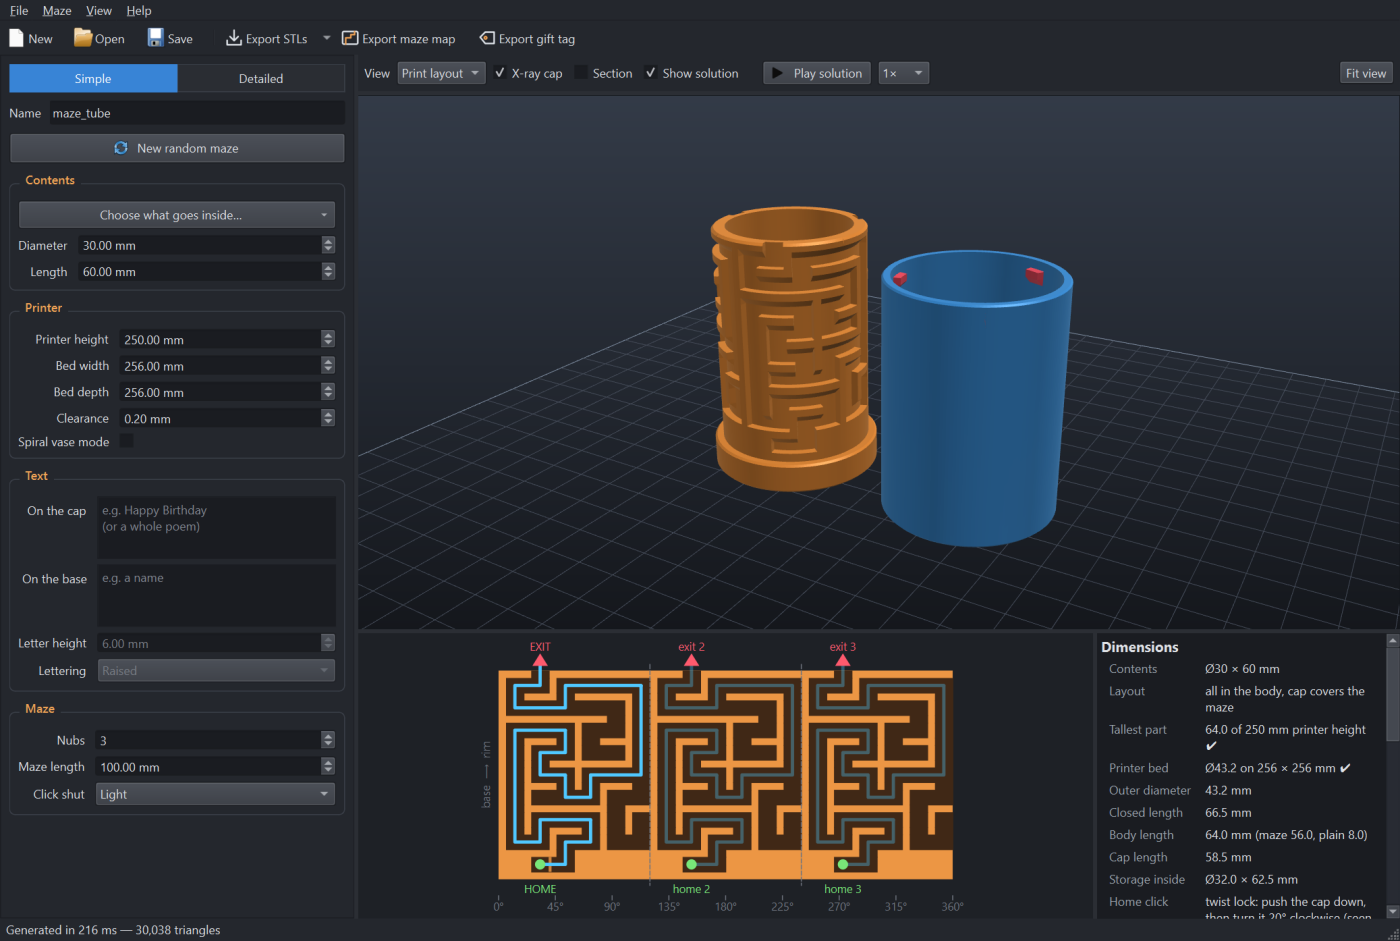
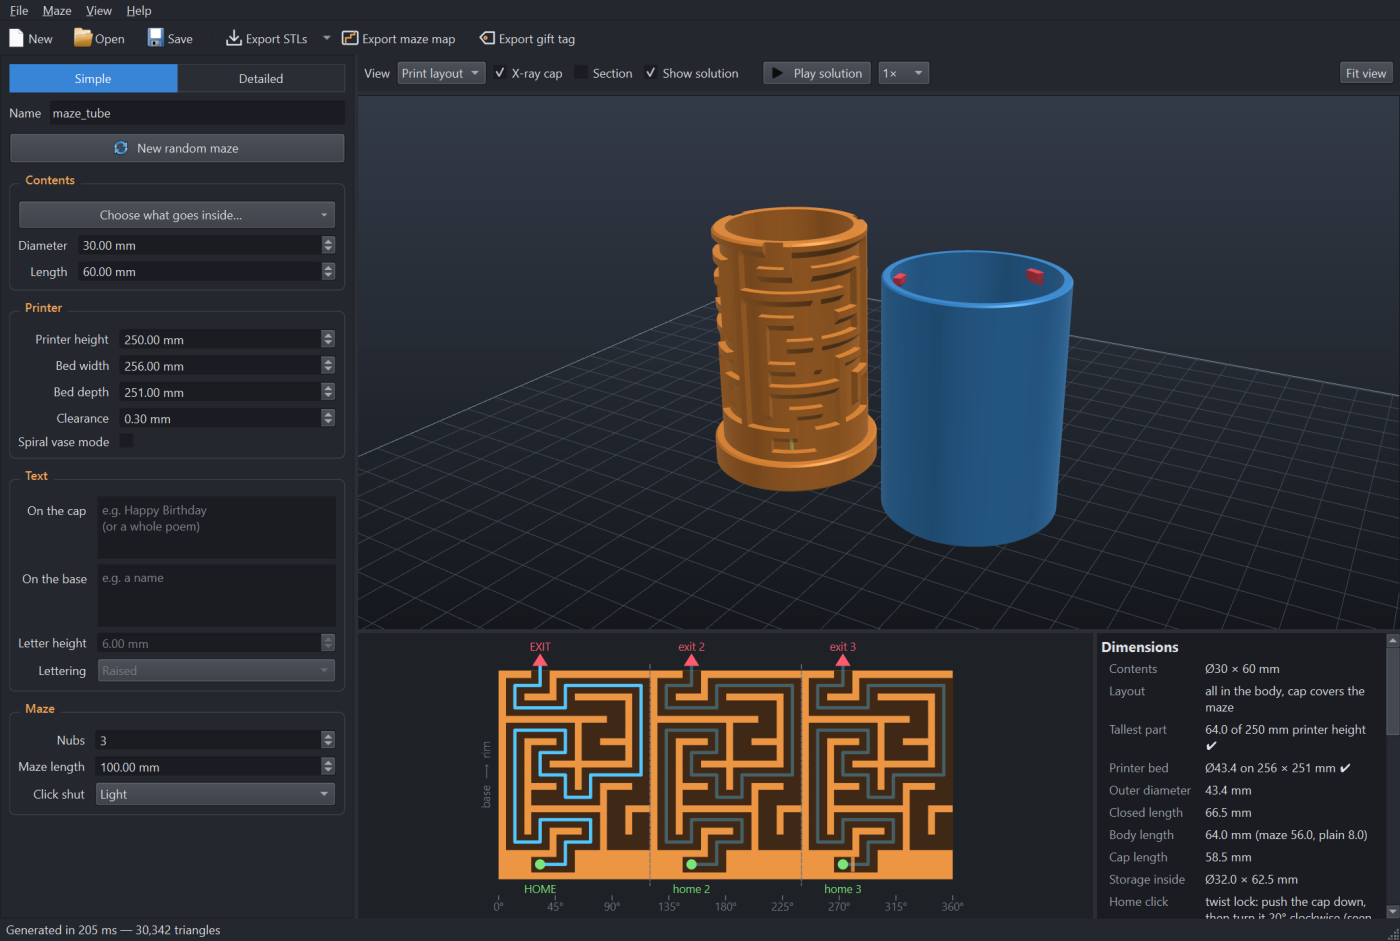
Maze Tube Designer 1.4.2: the click bump is in the front pocket, and shown
Only one lock pocket has the click bump (a bump under every nub would lock
the cap solid), and it was in the pocket at the back, so the pocket that
faces the default view looked as if the bump were missing.

- The bump is now in the pocket nearest the front, the side the text is
  centred on.
- It is drawn in yellow in the 3D view, and the panel says that only one
  pocket has it.

diff --git a/mazetube/geometry.py b/mazetube/geometry.py
@@ -35,6 +35,7 @@ EPS = 0.05          # width of the near-vertical step facets (mm)
 # the click: how far its bump stands above the nub's tip clearance (mm): light, medium, firm
 CLICK_BUMP = {1: 0.15, 2: 0.25, 3: 0.40}
 CLICK_NAME = {1: "light", 2: "medium", 3: "firm"}
+FRONT = math.radians(300.0)     # the side that faces the default camera: text is centred on it
 LOCK_TURN = -1      # the last move when closing, seen from above the cap's closed end:
                     # -1 = the cap turns clockwise to lock (anticlockwise opens), +1 the reverse
 INLAY_DEPTH = 0.8   # second-colour text goes at least this deep: two printed walls (mm)
@@ -557,9 +558,13 @@ class TubeDesign:
         self.nub_angles = np.array(
             [self.cell_theta(mz.home + LOCK_TURN * self.lock_cols + j * Ns) for j in range(self.n)])
         if self.detent_h > 0:
-            # the click: ONE ridge, across nub 0's slot, just on the home side of its pocket
+            # the click: ONE bump, just on the home side of one nub's pocket - the pocket
+            # nearest the front, so it is the one seen first on screen and on the print
+            away = np.abs(np.mod(self.nub_angles - FRONT + math.pi, TWO_PI) - math.pi)
+            self.ridge_nub = int(np.argmin(away))
             a_in, a_out = self.ridge_in / self.r_floor, self.ridge_out / self.r_floor
-            foot = self.nub_angles[0] - LOCK_TURN * (0.5 * self.nub_th + self.gap_pocket / self.r_floor)
+            foot = (self.nub_angles[self.ridge_nub]
+                    - LOCK_TURN * (0.5 * self.nub_th + self.gap_pocket / self.r_floor))
             self.th_ridge = foot - LOCK_TURN * a_out        # its peak
             # how far it reaches clockwise / anticlockwise of the peak
             self.a_lo, self.a_hi = (a_out, a_in) if LOCK_TURN < 0 else (a_in, a_out)
@@ -665,7 +670,7 @@ class TubeDesign:
             style = 0
             self.notes.append("Second-colour text needs normal printing - in spiral vase mode "
                               "it is raised instead.")
-        centre = math.radians(300.0)           # level text faces the default camera
+        centre = FRONT                         # level text faces the default camera
         start = math.radians(250.0)            # a spiral starts just left of that
         for key in list(self._layouts):
             lo, hi, wall = regions[key]
@@ -1338,8 +1343,9 @@ class TubeDesign:
                 f"(seen from its closed end); {self.unlock_way} unlocks")
         if self.detent_h > 0:
             how = "set by hand" if self.p.detent >= 0.05 else CLICK_NAME.get(int(self.p.detent_level), "on")
-            text += (f". Click {how}: a {self.detent_h:.2f} mm bump, {self.detent:.2f} mm more "
-                     f"than the nub's clearance")
+            where = "in its pocket" if self.n == 1 else f"in one of the {self.n} pockets (the front one)"
+            text += (f". Click {how}: a {self.detent_h:.2f} mm bump {where}, {self.detent:.2f} mm "
+                     f"more than the nub's clearance")
         else:
             text += ", no click"
         return text

diff --git a/mazetube/app.py b/mazetube/app.py
@@ -33,6 +33,7 @@ from .viewer import Viewer3D, make_transform
 BODY_COLOR = (0.93, 0.56, 0.22)
 CAP_COLOR = (0.24, 0.58, 0.88)
 NUB_COLOR = (0.98, 0.30, 0.38)
+BUMP_COLOR = (1.0, 0.95, 0.45)      # the click bump, picked out on the body
 PART_COLORS = {"body": BODY_COLOR, "cap": CAP_COLOR, "extension": (0.20, 0.72, 0.70)}
 TEXT_COLOR = (0.96, 0.95, 0.90)     # second-colour lettering
 
@@ -823,6 +824,16 @@ class MainWindow(QMainWindow):
         nub_f = cf[on_nub[cf].any(axis=1) & in_band[cf].all(axis=1)]
         self.viewer.set_mesh("nubs", cv, nub_f, NUB_COLOR)
         self.viewer.configure("nubs", overlay=True)
+        if d.detent_h > 0:                           # pick out the click bump: it is small, and
+            bv, bf = dparts[0].verts, dparts[0].faces    # in one pocket only
+            off = np.mod(np.arctan2(bv[:, 1], bv[:, 0]) - d.th_ridge + np.pi, 2 * np.pi) - np.pi
+            on_bump = ((off > -d.a_lo - 1e-6) & (off < d.a_hi + 1e-6)
+                       & (bv[:, 2] > d.z_notch_floor - 0.01) & (bv[:, 2] < d.z_notch_floor + d.wp + 0.01)
+                       & (np.hypot(bv[:, 0], bv[:, 1]) > d.r_floor - 1e-3))
+            self.viewer.set_mesh("bump", bv, bf[on_bump[bf].all(axis=1)], BUMP_COLOR)
+            self.viewer.configure("bump", overlay=True)
+        else:
+            self.viewer.remove_mesh("bump")
         self.map.set_design(d)
         self.viewer.set_bed(d.p.bed_x, d.p.bed_y)
         self.apply_view_mode(fit=None)
@@ -882,8 +893,13 @@ class MainWindow(QMainWindow):
                 else:
                     html.append(f"<p class='e'>✘ Fit check failed (gap {fit_gap:.2f} mm).</p>")
                 if d.lock_cols:
-                    click = (f" Just before it comes to rest, one nub passes a small "
-                             f"{d.detent_h:.2f} mm bump." if d.detent_h > 0 else "")
+                    click = ""
+                    if d.detent_h > 0:
+                        click = (f" Just before it comes to rest, one nub passes a small "
+                                 f"{d.detent_h:.2f} mm bump, shown in yellow on the body.")
+                        if d.n > 1:
+                            click += (f" Only the front one of the {d.n} pockets has it: a bump "
+                                      f"under every nub would lock the cap solid.")
                     html.append(f"<p class='ok'>✔ Twist lock: push the cap down, then turn it "
                                 f"{d.lock_way} (seen from its closed end) into its pocket.{click} "
                                 f"Locked, it cannot be pulled off: turn it {d.unlock_way} first.</p>")
@@ -961,6 +977,8 @@ class MainWindow(QMainWindow):
             models[pt.name] = (m, vis)
         m, vis = models["extension" if d.three else "cap"]
         v.configure("nubs", model=m, visible=vis)
+        m, vis = models["body"]
+        v.configure("bump", model=m, visible=vis)
         lo, hi = v.scene_bounds()
         if fit is None:   # auto: refit only if the scene size changed noticeably
             if self._fitted_bounds is None:

diff --git a/tests/test_geometry.py b/tests/test_geometry.py
@@ -681,8 +681,11 @@ def check_click():
             assert abs(r - (d.r_floor + (d.detent_h if j == 0 else 0.0))) < 1e-9, (nubs, j)
         # ... a thin line with 45° sides, between the nub's two resting places and clear of both
         assert abs(d.ridge_in - d.detent_h) < 1e-9 and abs(d.ridge_out - d.detent_h) < 1e-9
-        nub0, half = d.nub_angles[0], 0.5 * d.nub_th
+        nub0, half = d.nub_angles[d.ridge_nub], 0.5 * d.nub_th
         lo, hi = d.th_ridge - d.a_lo, d.th_ridge + d.a_hi
+        # it is in the pocket nearest the front, where it is seen first
+        front = np.abs(np.mod(d.nub_angles - geometry.FRONT + np.pi, 2 * np.pi) - np.pi)
+        assert front[d.ridge_nub] == front.min() and front.min() <= np.pi / d.n + 1e-9
         home0 = nub0 - LOCK_TURN * d.lock_cols * d.P_th
         assert min(nub0, home0) + half < lo < hi < max(nub0, home0) - half
         assert (hi - lo) * d.r_floor < 1.0, "the bump is a thin line, the rest of the landing is flat"

diff --git a/mazetube/__init__.py b/mazetube/__init__.py
@@ -1,3 +1,3 @@
 """Maze Tube Designer - generate printable cylinder maze puzzle boxes."""
 
-__version__ = "1.4.1"
+__version__ = "1.4.2"

diff --git a/README.md b/README.md
@@ -138,7 +138,9 @@ never touch the body.
     clearance. A cap is stiff, so the bump is kept small, and a printed fit is usually a little
     tighter than drawn, which makes it feel firmer. Start with Light. Detailed mode has
     **Click bump** to set it by hand.
-  * There is one bump, not one per nub: a bump under every nub locks the rim solid.
+  * There is one bump, not one per nub: a bump under every nub locks the rim solid. It is in the
+    pocket nearest the front (the side the text is centred on) and is picked out in yellow in the
+    3D view. The other pockets are plain.
   * The cap is stopped by the floor of the lock row, not by its rim on the body's shoulder (the
     shoulder sits 0.4 mm lower). However the two parts happen to seat, the nub has room to slide
     under the wall into its pocket. Closed, a hairline gap shows between cap and base.
